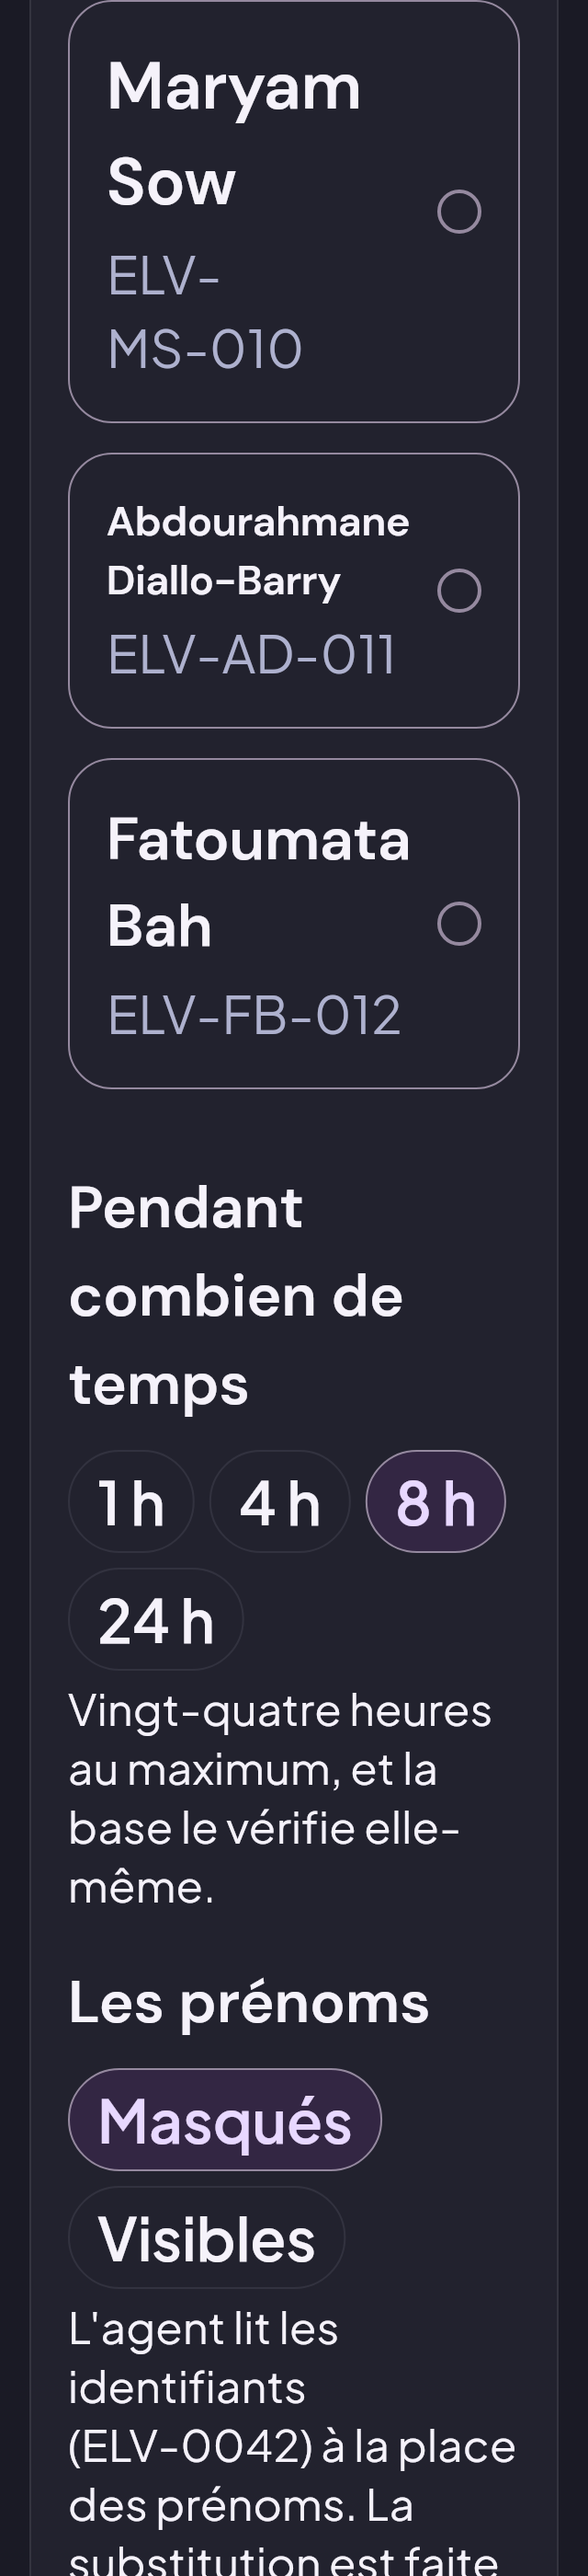
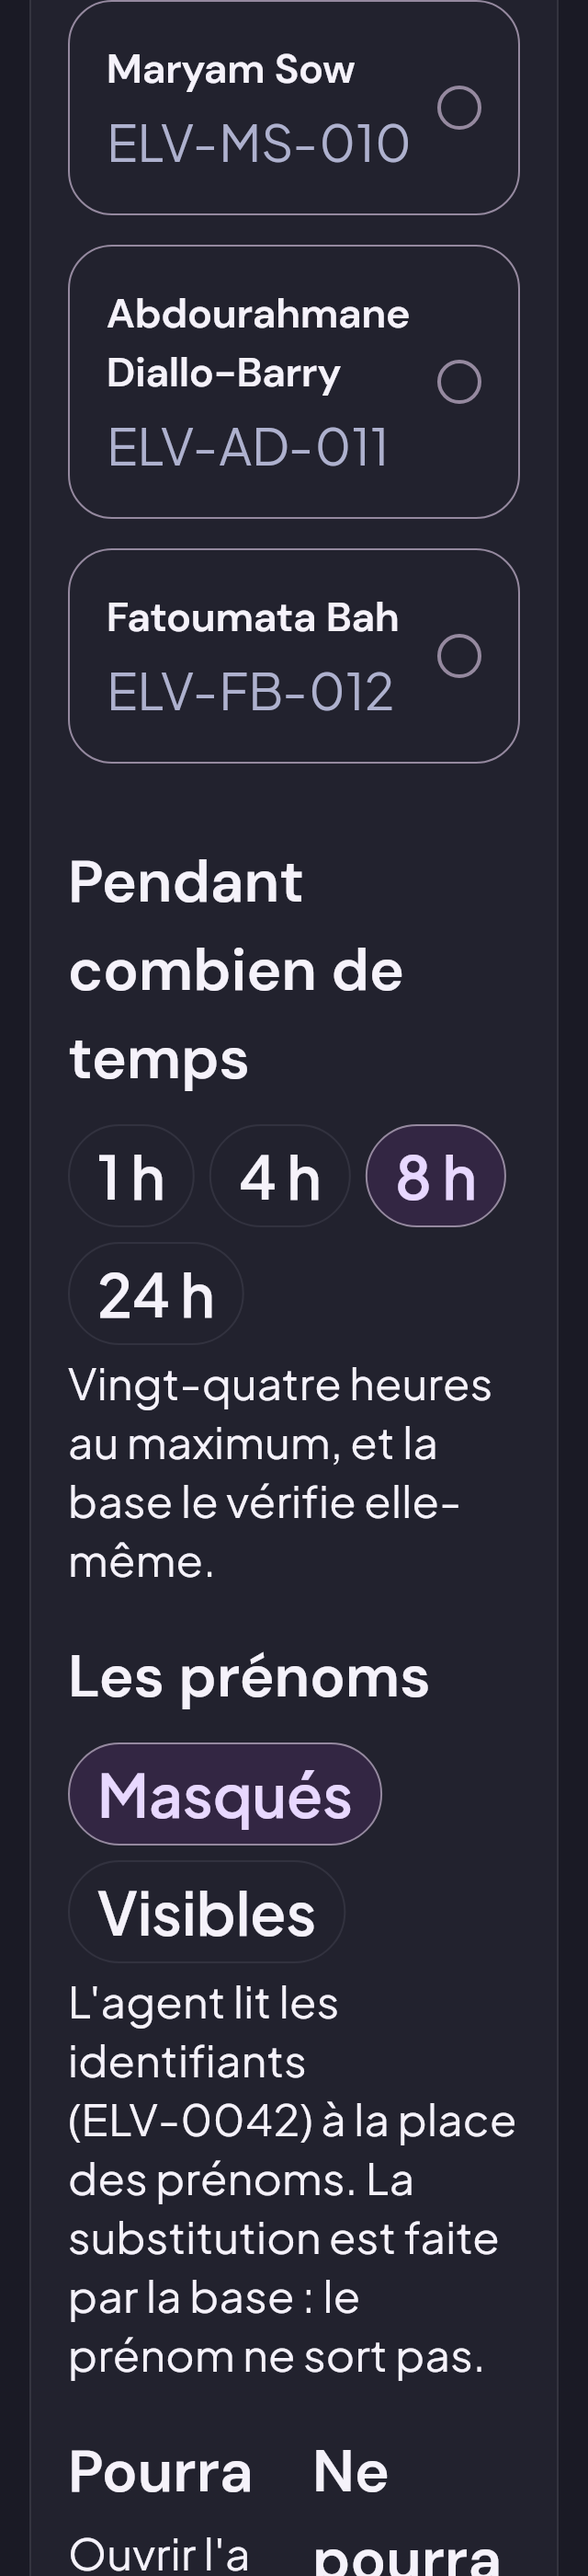
FORM-MINEURS : l'identifiant d'une carte de personne tient sur une ligne a 320 x2 (tirets insecables, description sans coupure), titres et descriptions a la meme taille d'une carte a l'autre ; test et captures
Claude-Session: https://claude.ai/code/session_01B8we8bPK1a6aYoBmRntpd8

diff --git a/test/features/selecteur_personne_ligne_test.dart b/test/features/selecteur_personne_ligne_test.dart
@@ -1,0 +1,85 @@
+// FORM-MINEURS : a 320 de large en texte x2, l'identifiant d'une carte de
+// personne tient sur une seule ligne (« ELV- / MS-010 » coupait au tiret).
+
+import 'package:flutter/material.dart';
+import 'package:flutter/rendering.dart' show RenderParagraph;
+import 'package:flutter_riverpod/flutter_riverpod.dart';
+import 'package:flutter_test/flutter_test.dart';
+import 'package:rewayah_academy/core/domain/enums.dart';
+import 'package:rewayah_academy/core/i18n/strings.g.dart';
+import 'package:rewayah_academy/core/theme/app_theme.dart';
+import 'package:rewayah_academy/core/widgets/selecteur_personne.dart';
+
+import '../capture/outil_capture.dart' show chargerPolicesDuDepot;
+
+void main() {
+  setUpAll(chargerPolicesDuDepot);
+
+  testWidgets('320 x2 : l\'identifiant de chaque carte tient sur une ligne', (
+    WidgetTester tester,
+  ) async {
+    tester.view.physicalSize = const Size(640, 2800);
+    tester.view.devicePixelRatio = 2;
+    addTearDown(tester.view.reset);
+    const List<PersonneProposee> gens = <PersonneProposee>[
+      PersonneProposee(id: 'a', nom: 'Maryam Sow', identifiant: 'ELV-MS-010'),
+      PersonneProposee(
+        id: 'b',
+        nom: 'Abdourahmane Diallo-Barry',
+        identifiant: 'ELV-AD-011',
+      ),
+      PersonneProposee(
+        id: 'c',
+        nom: 'Fatoumata Bah',
+        identifiant: 'ELV-FB-012',
+      ),
+    ];
+    await tester.pumpWidget(
+      ProviderScope(
+        child: TranslationProvider(
+          child: MaterialApp(
+            theme: AppTheme.pour(InterfaceMode.standard, Brightness.light),
+            builder: (BuildContext c, Widget? app) => MediaQuery(
+              data: MediaQuery.of(c)
+                  .copyWith(textScaler: const TextScaler.linear(2)),
+              child: app!,
+            ),
+            home: Scaffold(
+              body: SingleChildScrollView(
+                // Largeur utile de la page jeton a 320 (gouttieres et carte).
+                padding: const EdgeInsets.symmetric(horizontal: 36),
+                child: SelecteurPersonne(
+                  sorte: SortePersonne.observable,
+                  personnes: const AsyncValue<List<PersonneProposee>>.data(
+                    gens,
+                  ),
+                  choisie: null,
+                  onChoix: (_) {},
+                  onReessayer: () {},
+                ),
+              ),
+            ),
+          ),
+        ),
+      ),
+    );
+    await tester.pumpAndSettle();
+    for (final PersonneProposee p in gens) {
+      // Insensible au tiret : la meme assertion vaut avant et apres la correction.
+      final Finder f = find.byWidgetPredicate(
+        (Widget w) =>
+            w is Text && w.data?.replaceAll('\u2011', '-') == p.identifiant,
+      );
+      expect(f, findsOneWidget, reason: p.identifiant);
+      final Size taille = tester.getSize(f);
+      final double ligne = tester
+          .renderObject<RenderParagraph>(f)
+          .text
+          .style!
+          .fontSize!;
+      // Une seule ligne : hauteur inferieure a deux fois la taille de police x2 (echelle)
+      // (interligne compris), texte mis a l'echelle x2.
+      expect(taille.height, lessThan(ligne * 2 * 2), reason: p.identifiant);
+    }
+  });
+}

diff --git a/lib/core/widgets/choice_card_group.dart b/lib/core/widgets/choice_card_group.dart
@@ -157,6 +157,14 @@ class _ChoiceCardGroupState extends State<ChoiceCardGroup> {
 
   Widget _carteOption(OptionChoix option, {required bool verticale}) => _Carte(
     key: option.cle,
+    // Cartes empilees de meme largeur : titres et descriptions gardent la meme
+    // taille d'une carte a l'autre (COUPE-MOTS-1 point 6).
+    voisinsLibelle: verticale
+        ? const <String>[]
+        : <String>[for (final OptionChoix o in widget.options) o.libelle],
+    voisinsDescription: verticale
+        ? const <String>[]
+        : <String>[for (final OptionChoix o in widget.options) ?o.description],
     libelle: option.libelle,
     icone: option.icone,
     description: option.description,
@@ -241,7 +249,13 @@ class _Carte extends StatelessWidget {
     this.description,
     this.raisonIndisponible,
     this.verticale = false,
+    this.voisinsLibelle = const <String>[],
+    this.voisinsDescription = const <String>[],
   });
+
+  /// Les titres et descriptions des cartes voisines (meme largeur).
+  final List<String> voisinsLibelle;
+  final List<String> voisinsDescription;
 
   /// Vrai pour la disposition cote a cote : contenu centre, icone dans un
   /// disque au-dessus du titre, radio (ou coche) en haut a droite.
@@ -354,6 +368,7 @@ class _Carte extends StatelessWidget {
                                 // (FORM-MINEURS) ; l'echelle se reduit juste assez.
                                 TexteSansCoupure(
                                   libelle,
+                                  voisins: voisinsLibelle,
                                   style: _disponible
                                       ? paire.applyTo(
                                           textes.titleMedium ??
@@ -366,7 +381,12 @@ class _Carte extends StatelessWidget {
                                 ),
                                 if (description != null) ...<Widget>[
                                   Ecart.vXs,
-                                  Text(description!, style: styleSecondaire),
+                                  // Sans coupure : « ELV- / MS-010 » a 320 en texte x2 (FORM-MINEURS).
+                                  TexteSansCoupure(
+                                    description!,
+                                    voisins: voisinsDescription,
+                                    style: styleSecondaire,
+                                  ),
                                 ],
                                 if (raisonIndisponible != null) ...<Widget>[
                                   Ecart.vSm,

diff --git a/lib/core/widgets/selecteur_personne.dart b/lib/core/widgets/selecteur_personne.dart
@@ -238,7 +238,12 @@ class _SelecteurPersonneEtat extends State<SelecteurPersonne> {
                   cle: ValueKey<String>('personne-${p.id}'),
                   valeur: p.id,
                   libelle: p.nom,
-                  description: p.identifiant == p.nom ? null : p.identifiant,
+                  // Tirets insecables a l'affichage seulement : « ELV- / MS-010 »
+                  // a 320 en texte x2 (FORM-MINEURS). La valeur et la recherche
+                  // gardent l'identifiant tel quel.
+                  description: p.identifiant == p.nom
+                      ? null
+                      : p.identifiant.replaceAll('-', '\u2011'),
                 ),
             ],
             onChange: (ReponseChoix reponse) {

diff --git a/test/features/form_l2_selecteur_personne_test.dart b/test/features/form_l2_selecteur_personne_test.dart
@@ -98,7 +98,7 @@ void main() {
       expect(_carte('e-mariam'), findsNothing);
       // Le nom et l'identifiant immuable, jamais l'identifiant technique.
       expect(find.text('Amina Diallo'), findsWidgets);
-      expect(find.text('ENS-AD-001'), findsOneWidget);
+      expect(find.text('ENS\u2011AD\u2011001'), findsOneWidget);
       expect(find.text('t-amina'), findsNothing);
     });
 
